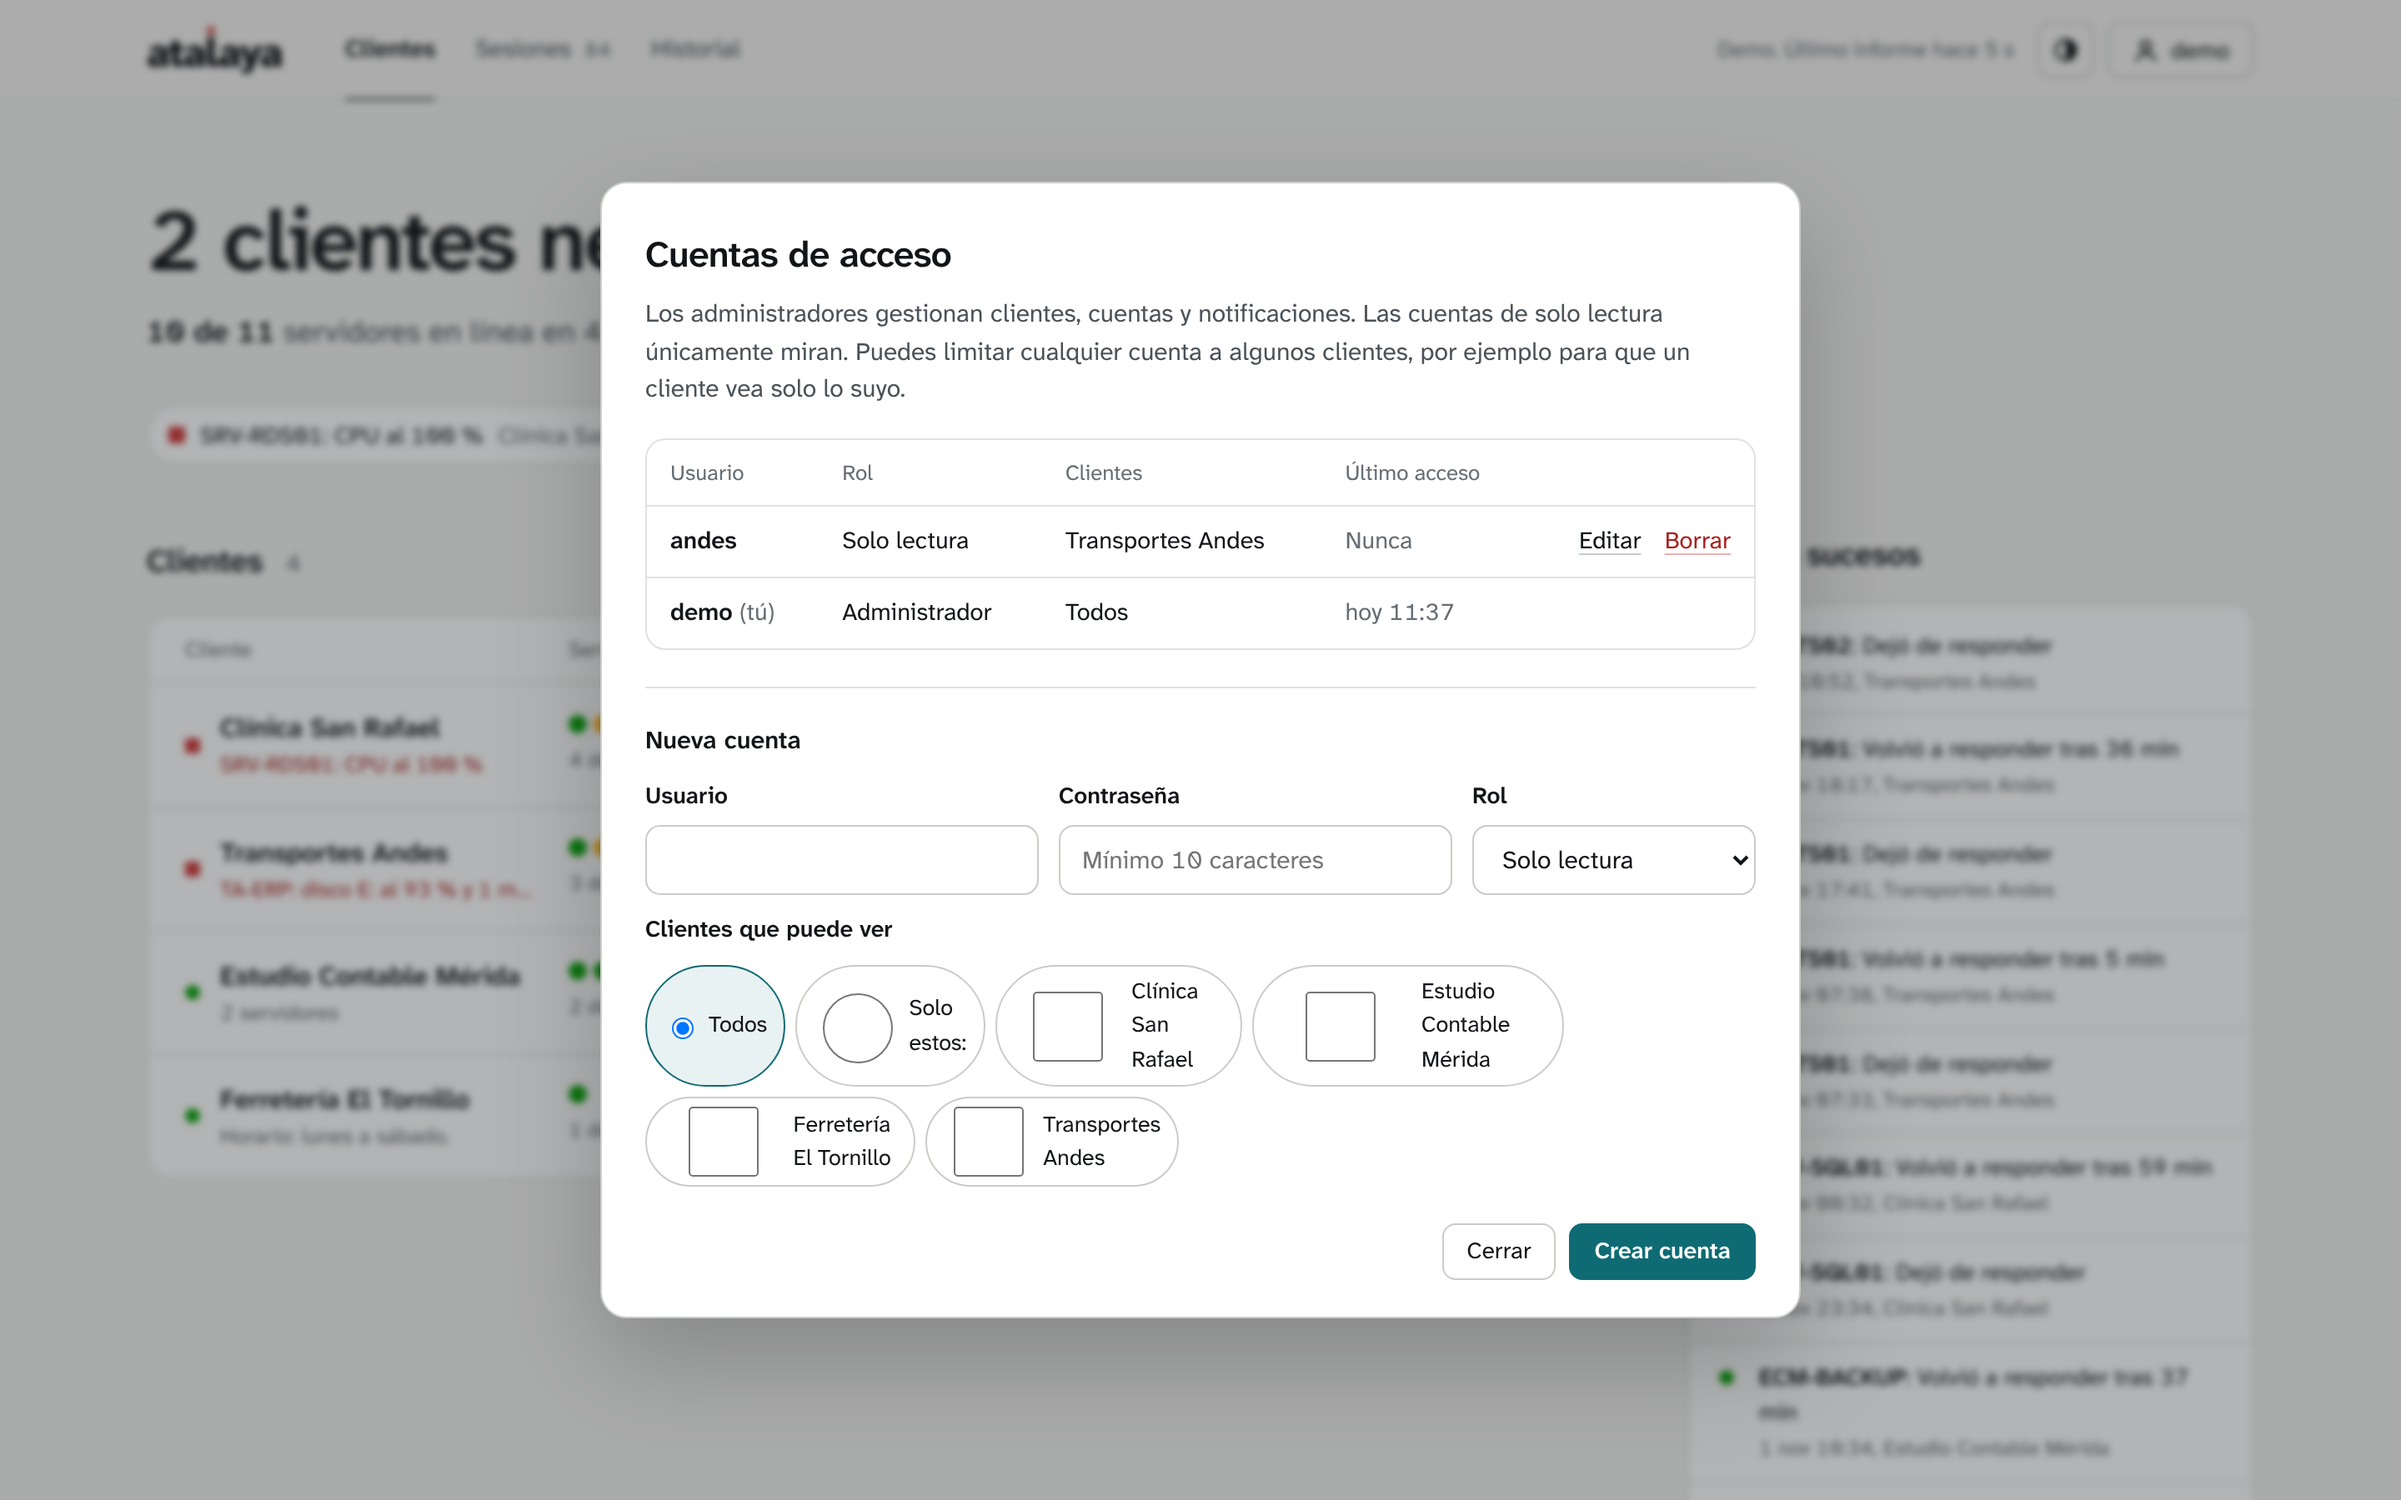
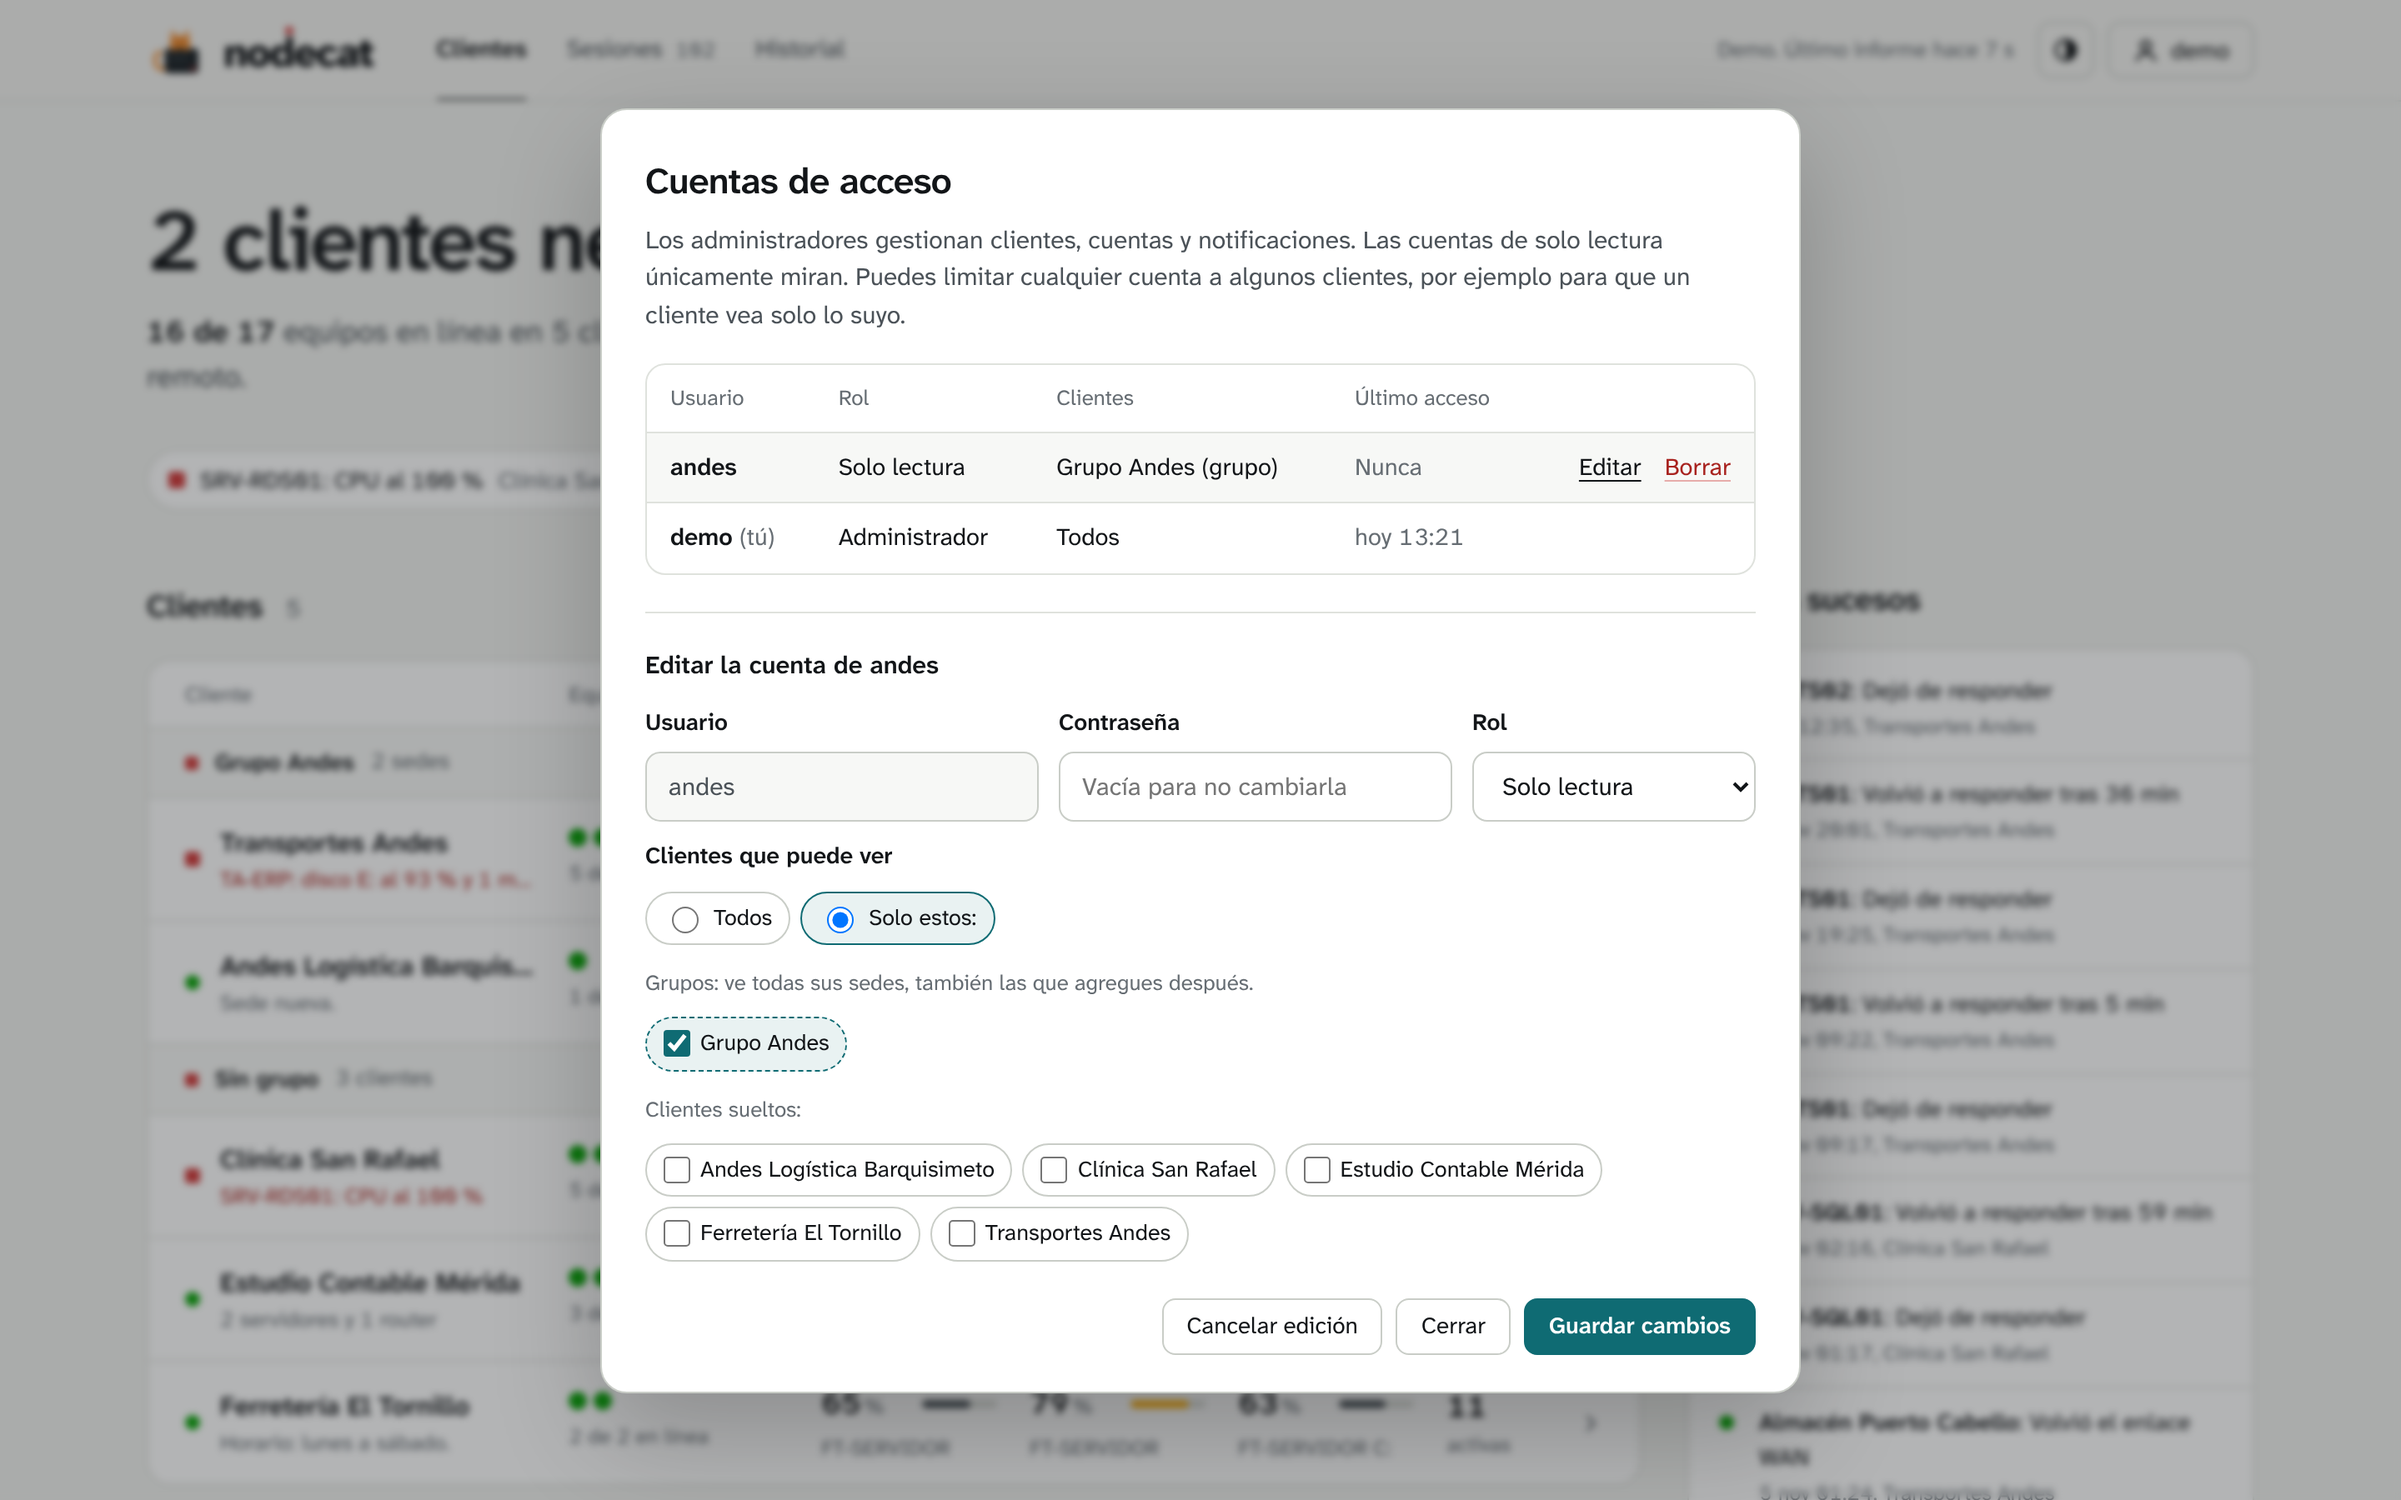
Capturas y textos con el nombre NodeCat
Claude-Session: https://claude.ai/code/session_01AqovsX8WFWv1Eibt1KMy1i

diff --git a/servidor/nodecat.js b/servidor/nodecat.js
@@ -215,7 +215,7 @@ ruta('POST', '/api/agente/informe', { publica: true, agente: true }, async ({ re
   const ip = ipDe(req);
   const f = malasClaves.get(ip);
   if (f && f.hasta > Date.now()) throw error(429, 'Demasiados intentos con una clave errónea. Espera unos minutos.');
-  const clave = req.headers['x-nodecat-agente'] || req.headers['x-atalaya-agente'] || req.headers['x-vigia-agente'];   // los agentes antiguos siguen funcionando
+  const clave = req.headers['x-nodecat-agente'] || req.headers['x-atalaya-agente'] || req.headers['x-vigia-agente'];   // los agentes de versiones anteriores siguen funcionando
   const cuerpo = await leerCuerpo(req, 2 * 1024 * 1024);
   try { const r = flota.recibir(clave, cuerpo, ip); avisos.evaluar(); return r; }
   catch (e) { if (e.status === 403) claveFallida(ip); throw e; }

diff --git a/servidor/lib/db.js b/servidor/lib/db.js
@@ -6,7 +6,7 @@ const fs = require('node:fs');
 const config = require('./config');
 
 fs.mkdirSync(config.DATA_DIR, { recursive: true });
-// Antes se llamaba Atalaya: se conserva la base de datos de esa versión
+// Instalaciones anteriores a la 0.4: se conserva su base de datos con el nombre nuevo
 for (const [viejo, nuevo] of [['atalaya.db', 'nodecat.db'], ['atalaya-demo.db', 'nodecat-demo.db']]) {
   const v = path.join(config.DATA_DIR, viejo), n = path.join(config.DATA_DIR, nuevo);
   if (fs.existsSync(v) && !fs.existsSync(n)) for (const ext of ['', '-wal', '-shm']) if (fs.existsSync(v + ext)) fs.renameSync(v + ext, n + ext);

diff --git a/servidor/lib/config.js b/servidor/lib/config.js
@@ -5,7 +5,7 @@ module.exports = {
   VERSION: '0.4.0',
   PUERTO: parseInt(env.PUERTO || '8080', 10),
   DATA_DIR: env.DATA_DIR || require('node:path').join(__dirname, '..', 'datos'),
-  DEMO: (env.NODECAT_DEMO || env.ATALAYA_DEMO) === '1',
+  DEMO: env.NODECAT_DEMO === '1',
   // Detrás de Cloudflare Tunnel o de un proxy inverso: usar la IP real del visitante y saber si llegó por HTTPS
   CONFIAR_PROXY: env.CONFIAR_PROXY === '1',
   TELEGRAM_API: (env.TELEGRAM_API || 'https://api.telegram.org').replace(/\/$/, ''),

diff --git a/CHANGELOG.md b/CHANGELOG.md
@@ -2,8 +2,8 @@
 
 ## 0.4.0 (noviembre de 2026)
 
-- Atalaya pasa a llamarse **NodeCat**. La base de datos se renombra sola al actualizar y los agentes ya instalados siguen funcionando (Atalaya Agente); los nuevos se instalan como NodeCat Agente.
-- La primera vez, actualiza con `docker compose up -d --build --remove-orphans` (cambia el nombre del contenedor).
+- Nombre y marca definitivos: **NodeCat**, con la luz de estado sobre la "d".
+- Al actualizar desde una versión anterior, usa `docker compose up -d --build --remove-orphans`; los datos y los agentes instalados se conservan.
 
 ## 0.3.1 (noviembre de 2026)
 
@@ -22,7 +22,7 @@
 
 ## 0.2.1 (noviembre de 2026)
 
-- Nuevo logo y mascota: el gato de Atalaya. Repara el servidor, corre al cargar, programa en las listas vacías, se impacienta si algo tarda y se avergüenza con los errores.
+- Nuevo logo y mascota: el gato de NodeCat. Repara el servidor, corre al cargar, programa en las listas vacías, se impacienta si algo tarda y se avergüenza con los errores.
 - Icono nuevo para la pestaña del navegador y para el agente.
 - Los sucesos de enlace WAN caído y recuperado se muestran con su texto.
 
@@ -47,5 +47,5 @@ Primera versión: fase 1.
 - Avisos por Telegram con chats adicionales por cliente y resumen diario.
 - Cuentas de administrador y de solo lectura, limitables a algunos clientes.
 - Primera configuración con un código de un solo uso que aparece en el registro del contenedor.
-- Agente Atalaya 1.1.0: HTTPS con TLS 1.2, proxy opcional, informes atrasados que completan el historial.
+- Agente NodeCat 1.1.0: HTTPS con TLS 1.2, proxy opcional, informes atrasados que completan el historial.
 - Docker y docker-compose, con Cloudflare Tunnel opcional. Modo demo.

diff --git a/README.md b/README.md
@@ -47,9 +47,9 @@ Es la evolución multicliente de [Vigía](https://github.com/foxyproxy14-dev/vig
   </tr>
 </table>
 
-## Si venías de Atalaya
+## Actualizar
 
-NodeCat antes se llamaba Atalaya. Al actualizar, la base de datos se renombra sola y no se pierde nada; los agentes ya instalados siguen funcionando. Como el contenedor también cambia de nombre, la primera vez actualiza así:
+Los datos y los agentes instalados se conservan. Si vienes de una versión anterior a la 0.4, actualiza así la primera vez:
 
 ```bash
 git remote set-url origin https://github.com/foxyproxy14-dev/nodecat.git
